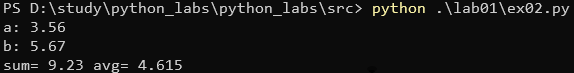
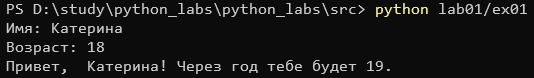
Задание 5

diff --git a/src/lab01/ex03.py b/src/lab01/ex03.py
@@ -3,5 +3,5 @@ discount = float(input());
 vat = float(input());
 base =  price * (1 - discount/100);
 print("База после скидки:  ", base, "₽");
-print("НДС:              ", base * (vat/100), "₽");
-print("Итого к оплате:    ", base+ base * (vat/100), "₽");
+print("НДС:                ", base * (vat/100), "₽");
+print("Итого к оплате:     ", base+ base * (vat/100), "₽");

diff --git a/src/lab01/ex05.py b/src/lab01/ex05.py
@@ -1,0 +1,6 @@
+fio = str(input("ФИО:"));
+FIO = fio.title().split();
+surname = FIO[0]; name = FIO[1]; fname = FIO[2];
+length = len(surname) + len(name) + len(fname) + 2;
+print("Инициалы: ", surname[0], name[0], fname[0], sep = '');
+print("Длина (символов):", length);

diff --git a/src/lab01/ex02.py b/src/lab01/ex02.py
@@ -1,6 +1,4 @@
-print('a:', end = '');
-a = float(input());
-print('b:', end = '');
-b = float(input());
+a = float(input("a:"));
+b = float(input("b:"));
 sum = a+b;
 print("sum=", sum , "avg=", sum/2);

diff --git a/src/lab01/ex04.py b/src/lab01/ex04.py
@@ -1,0 +1,4 @@
+m = int(input("Минуты: "))
+h = m // 60
+min = m % 60
+print(f"{h}:{min:02d}")
